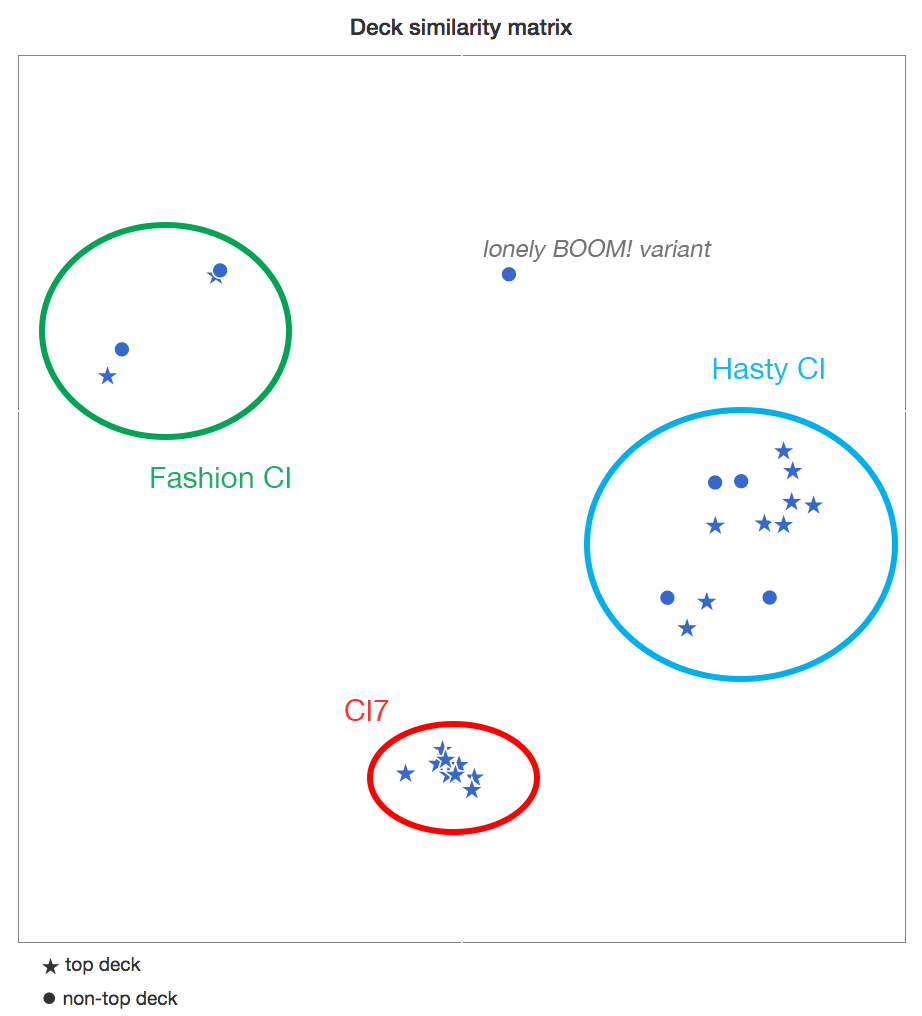
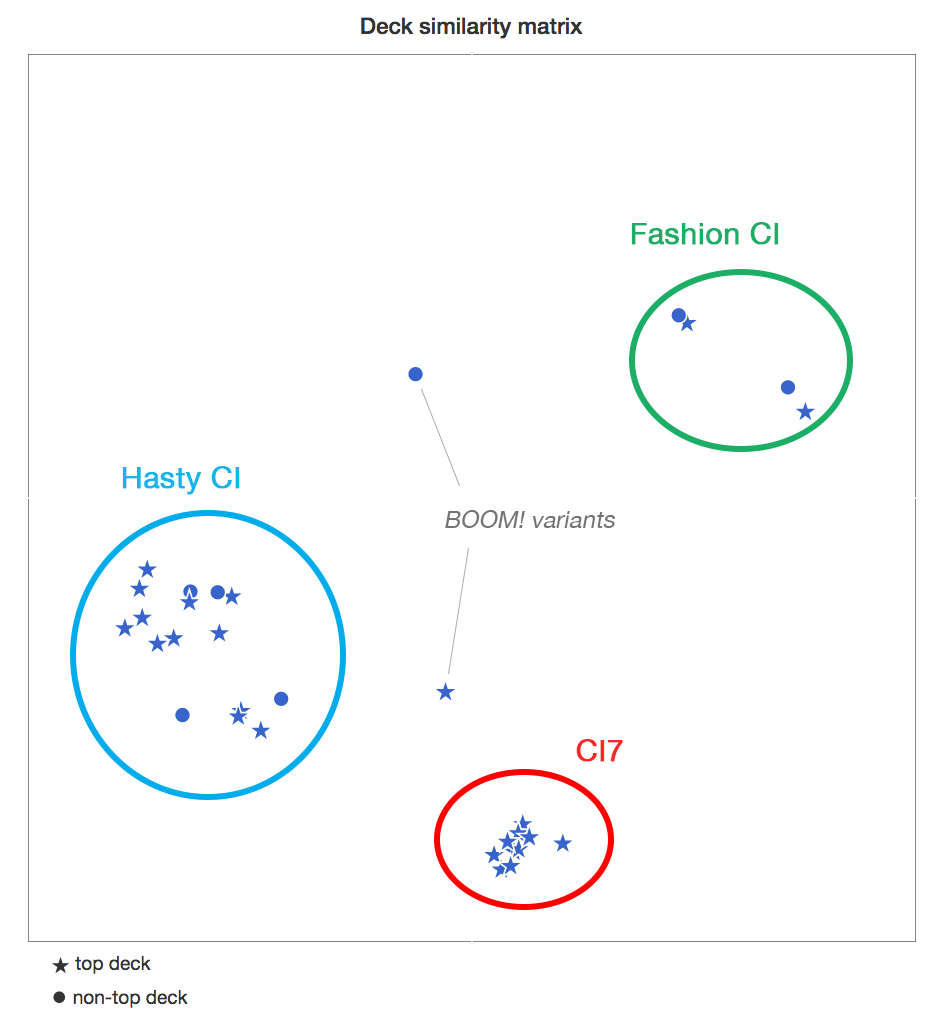
CI blog entry update

diff --git a/src/main/resources/templates/fragments/blog/rise-of-ci.html b/src/main/resources/templates/fragments/blog/rise-of-ci.html
@@ -41,14 +41,6 @@ right? Well, it is a pretty good indicator. There are two reasons why an ID can 
     What's the deal with CI? Both reasons hold true for <strong>Cerebral Imaging</strong>. The decks involved are the
     very definition of complex, solitaire play. It is usually adept players who are fielding CI on tournaments.
 </p>
-<div class="blog-big-picture text-center">
-    <ktm:img title="Violet Level Clearance" size="medium"/>
-</div>
-<br/>
-<p>
-Let us not forget that <ktm:card title="Violet Level Clearance"/> just came out with Quorum. This card is a huge
-enabler for CI. It is all that the ID needs: credits and draws.
-</p>
 <br/>
 <h4>Quorum meta</h4>
 <p>
@@ -84,6 +76,15 @@ enabler for CI. It is all that the ID needs: credits and draws.
     unprotected remotes helps <ktm:card title="Temüjin Contract"/> and <ktm:card title="Dirty Laundry"/>.)
 </p>
 <p>
+    <div class="blog-big-picture text-center">
+        <ktm:img title="Violet Level Clearance" size="medium"/>
+    </div>
+</p>
+<p>
+    Let us not forget that <ktm:card title="Violet Level Clearance"/> just came out with Quorum. This card is a huge
+    enabler for CI. It is all that the ID needs: credits and draws.
+</p>
+<p>
     Quorum also delivers a decent blow to the previously dominating tagging-NBN decks with <ktm:card title="Aaron Marrón"/>.
     Glacier corporations struggle with <ktm:card title="Şifr"/>. As its competition weakened and everybody prepared
     for assets, <strong>the time became right for Cerebral Imaging</strong>.
@@ -101,7 +102,7 @@ enabler for CI. It is all that the ID needs: credits and draws.
     Have a good look at the <strong>deck similarity matrix</strong> on
     <a href="/MDSIdentity/Quorum/Cerebral%20Imaging:%20Infinite%20Frontiers/">Deck Drilldown page of CI (Quorum)</a>.
     It is easy to identify the three clusters of decks which are the current archetypes for Cerebral Imaging.
-    <em>(There is also a single deck with <ktm:card title="BOOM!"/>, but that didn't become a thing.)</em>
+    <em>(There are also two decks with <ktm:card title="BOOM!"/>, but I will skip those in this article.)</em>
 </p>
 <ul>
     <div class="row blog-image">
@@ -425,7 +426,8 @@ enabler for CI. It is all that the ID needs: credits and draws.
     Cerebral Imaging requires a good <strong><em>economy</em></strong>, so decks feature <em>Transaction</em> operations:
     <ktm:card title="Violet Level Clearance"/>, <ktm:card title="Blue Level Clearance"/>,
     <ktm:card title="Green Level Clearance"/> and <ktm:card title="Hedge Fund"/>. Sometimes <ktm:card title="Reuse"/>
-    is included for making emergency funds. <ktm:card title="Lateral Growth"/> works well for <strong>Hasty CI</strong>.
+    is included for making emergency funds and to defend against <ktm:card title="Account Siphon"/>.
+    <ktm:card title="Lateral Growth"/> works well for <strong>Hasty CI</strong>.
 </p>
 <p>
     All decks have <ktm:card title="Biotic Labor"/> for <strong><em>extra clicks</em></strong>. <strong>CI7</strong> also
@@ -481,7 +483,7 @@ enabler for CI. It is all that the ID needs: credits and draws.
     often used.
 </p>
 <p>
-    <ktm:card title="Fairchild 3.0"/> is the ultimate taxing ice in HB, decks usually have three of them. Since
+    <ktm:card title="Fairchild 3.0"/> is the ultimate taxing ice in HB, <strong>non-CI7</strong> decks usually have three of them. Since
     <ktm:card title="Medium"/> is really popular, corps tend to have <ktm:card title="Macrophage"/> against it.
     <ktm:card title="Rototurret"/> punishes face-cheking. Sometimes <ktm:card title="Turing"/> is there to mess with
     Anarchs' <ktm:card title="Faust"/>.
@@ -512,6 +514,9 @@ enabler for CI. It is all that the ID needs: credits and draws.
 </p>
 <div class="row blog-image">
     <div class="col-md-3 col-xs-6">
+        <ktm:img title="Account Siphon" size="small"/>
+    </div>
+    <div class="col-md-3 col-xs-6">
         <ktm:img title="Clot" size="small"/>
     </div>
     <div class="col-md-3 col-xs-6">
@@ -520,10 +525,13 @@ enabler for CI. It is all that the ID needs: credits and draws.
     <div class="col-md-3 col-xs-6">
         <ktm:img title="Hades Shard" size="small"/>
     </div>
-    <div class="col-md-3 col-xs-6">
-        <ktm:img title="Film Critic" size="small"/>
-    </div>
 </div>
+<p>
+    Defending against <ktm:card title="Account Siphon"/> and <ktm:card title="Vamp"/> is also critical.
+    A reduced credits could mean an agenda-flood
+    in your hand which the runners will exploit happily. <ktm:card title="Crisium Grid"/> and <ktm:card title="Targeted Marketing"/> might help.
+    <ktm:card title="Reuse"/> can recover you from nasty financial situations.
+</p>
 <p>
     <ktm:card title="Clot"/> is a problem for both <strong>CI7</strong> and <strong>Hasty CI</strong>. It is not as
     popular as it used to be, but still a standard tool against fast-advancing in Shaper decks. Your redeeming options
@@ -541,10 +549,29 @@ enabler for CI. It is all that the ID needs: credits and draws.
     <strong>Fashion CI</strong> is totally different. Its most effective hate card is <ktm:card title="Film Critic"/>.
     Start sweating if you see it on the board. You can try to mushin a trap.
 </p>
+<br/>
+<h4>Which CI am I playing against?</h4>
+<p><em>courtesy of <strong>percomis</strong></em></p>
 <p>
-    Defending against <ktm:card title="Account Siphon"/> is also critical. A reduced credits could mean an agenda-flood
-    in your hand which the runners will exploit happily. <ktm:card title="Crisium Grid"/> might help.
+    So you are playing against Cerebral Imaging. How to know which archetype you are facing before they start scoring?
 </p>
+<ul>
+    <li>
+        <strong>CI7</strong>: You bump into a <ktm:card title="Paper Wall"/>. You see combo pieces in the Archives such
+        as <em>Shipments</em>, <ktm:card title="Interns"/>, <ktm:card title="Reclamation Order"/>, maybe
+        <ktm:card title="Jackson Howard"/> even. You access a <ktm:card title="Power Shutdown"/>,
+        <ktm:card title="Shipment from Kaguya"/> or <ktm:card title="Interns"/> from HQ or R&amp;D.
+    </li>
+    <li>
+        <strong>Hasty CI</strong>: You access a <ktm:card title="Hasty Relocation"/> or <ktm:card title="Localized Product line"/> from HQ or R&amp;D.
+        Opponent plays a <ktm:card title="Localized Product line"/>.
+    </li>
+    <li>
+        <strong>Fashion CI</strong>: You access assets other than <ktm:card title="Jackson Howard"/> from HQ or R&amp;D.
+        There are remotes on the table. You are lucky enough to steal a
+        <ktm:card title="Vanity Project"/>. You access a <ktm:card title="Mushin No Shin"/> from HQ or R&amp;D.
+    </li>
+</ul>
 <br/>
 <h4>Conclusion</h4>
 <p>
@@ -555,6 +582,9 @@ enabler for CI. It is all that the ID needs: credits and draws.
     incoming runner threats with them. That knowledge will be valuable because Cerebral Imaging is likely to stay with us
     for a while.
 </p>
+<p>
+    <em>Thank you <strong>miek</strong> for your insights on CI.</em>
+</p>
 <br/>
 <hr/>
 <h4>Support me</h4>
@@ -562,7 +592,9 @@ enabler for CI. It is all that the ID needs: credits and draws.
     Did you like this article? Are you using
     <img src="https://alwaysberunning.net/favicon-96x96.png" class="img-inline"/><a href="https://alwaysberunning.net">AlwaysBeRunning.net</a> or
     <img src="http://www.knowthemeta.com/favicon-96x96.png" class="img-inline"/><a href="http://www.knowthemeta">KnowTheMeta</a>?
-    If so, please check out the ways you can support me:<br/>
+</p>
+<p>
+    If so, please check out the ways you can support me and my sites:<br/>
     <br/>
     <div class="text-center">
         <a href="https://alwaysberunning.net/support-me" class="btn btn-warning">Support Me</a>
